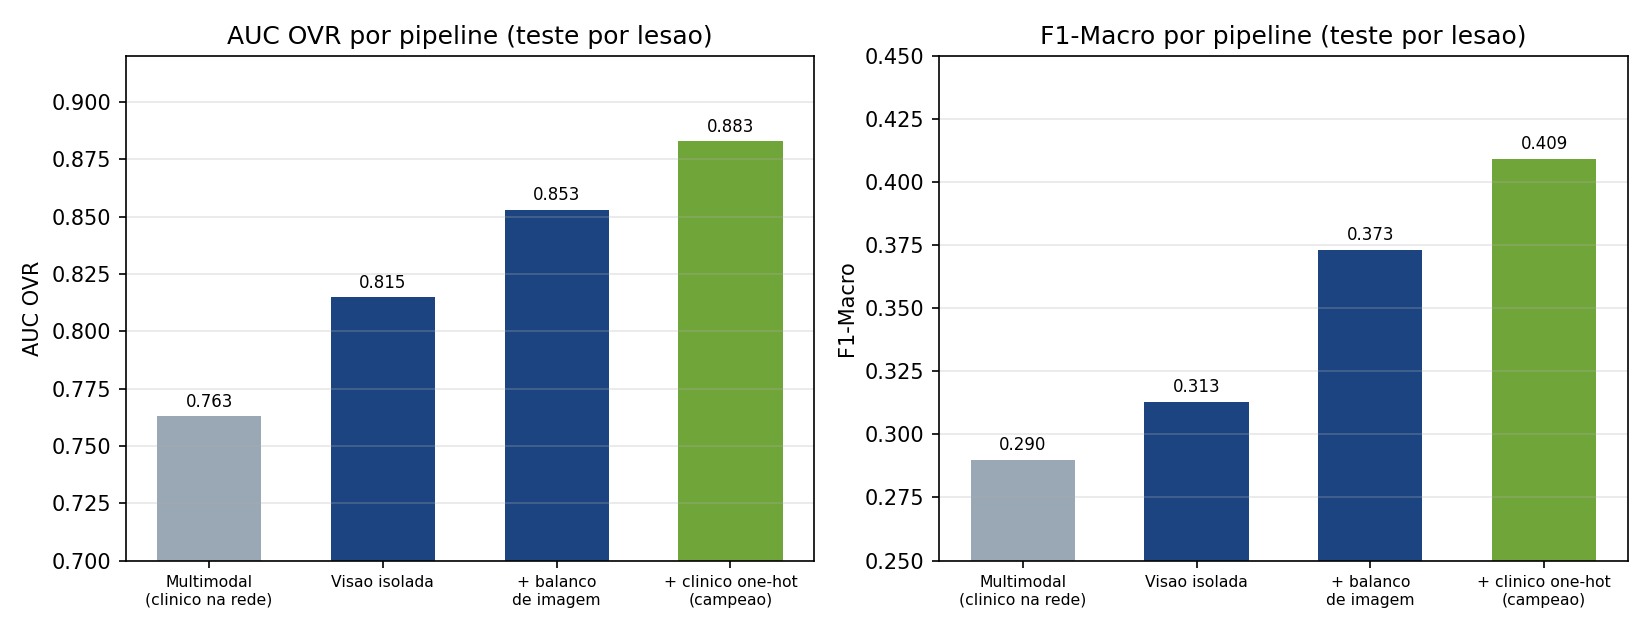
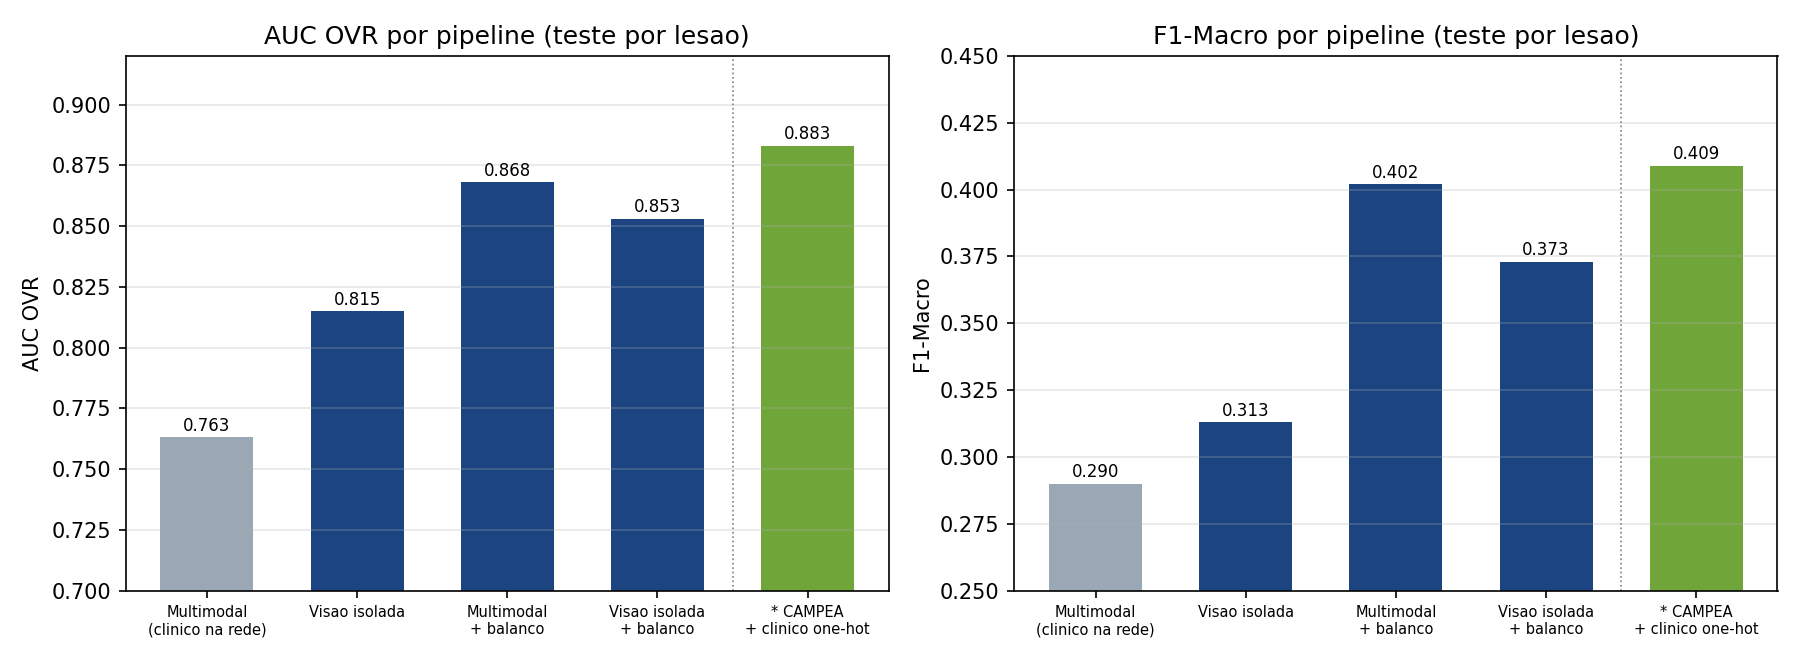
resultados: gráfico comparativo corrigido + matriz de confusão da campeã (7 classes + binária)

diff --git a/scripts/_champion_matrices.py b/scripts/_champion_matrices.py
@@ -1,0 +1,60 @@
+# -*- coding: utf-8 -*-
+"""Matrizes de confusao da CAMPEA (XGBoost+SMOTE sobre image-only+balance + clinico one-hot).
+Gera 1 figura com 2 paineis:
+  (a) 7 classes  (predicao argmax)
+  (b) maligna x benigna no limiar de triagem 0,05 (ponto de operacao)
+Saida: resultados/matriz_confusao_campea.png
+"""
+import warnings; warnings.filterwarnings("ignore")
+from pathlib import Path
+import numpy as np
+import matplotlib; matplotlib.use("Agg")
+import matplotlib.pyplot as plt
+from imblearn.over_sampling import SMOTE
+from sklearn.metrics import confusion_matrix, ConfusionMatrixDisplay
+from xgboost import XGBClassifier
+
+CLASSES = ["akiec","bcc","bkl","df","mel","nv","vasc"]
+MALIG = [0,1,4]; TAU = 0.05
+B = Path("data/embeddings_cache/grouped"); MM, WIN = B/"multimodal", B/"imageonlybalanced"
+OUT = Path("resultados"); OUT.mkdir(parents=True, exist_ok=True)
+
+# clinico one-hot (alinhado; do multimodal)
+ctr = np.vstack([np.load(MM/"X_train_clin.npy"), np.load(MM/"X_val_clin.npy")]); cte = np.load(MM/"X_test_clin.npy")
+locs = np.unique(np.concatenate([ctr[:,2],cte[:,2]])).astype(int); sexs = np.unique(np.concatenate([ctr[:,1],cte[:,1]])).astype(int)
+oh = lambda c: np.hstack([c[:,0:1],
+    np.stack([(c[:,1].astype(int)==s)*1.0 for s in sexs],1),
+    np.stack([(c[:,2].astype(int)==l)*1.0 for l in locs],1)])
+Xtr = np.hstack([np.vstack([np.load(WIN/"X_train_imgfused.npy"), np.load(WIN/"X_val_imgfused.npy")]), oh(ctr)])
+Xte = np.hstack([np.load(WIN/"X_test_imgfused.npy"), oh(cte)])
+ytr = np.concatenate([np.load(MM/"y_train.npy"), np.load(MM/"y_val.npy")]); yte = np.load(MM/"y_test.npy")
+
+k = min(5, int(np.bincount(ytr).min()-1))
+Xb, yb = SMOTE(random_state=42, k_neighbors=max(1,k)).fit_resample(Xtr, ytr)
+clf = XGBClassifier(use_label_encoder=False, eval_metric="mlogloss", random_state=42, verbosity=0).fit(Xb, yb)
+proba = clf.predict_proba(Xte)
+pred = proba.argmax(1)
+
+fig, ax = plt.subplots(1, 2, figsize=(13, 5.2))
+
+# (a) 7 classes
+cm7 = confusion_matrix(yte, pred, labels=range(7))
+ConfusionMatrixDisplay(cm7, display_labels=CLASSES).plot(ax=ax[0], cmap="Blues", values_format="d", colorbar=False)
+ax[0].set_title("(a) Campea XGBoost - 7 classes (argmax)")
+
+# (b) maligna x benigna no limiar 0,05
+ymal = np.isin(yte, MALIG).astype(int)
+flag = (proba[:, MALIG].sum(1) >= TAU).astype(int)
+cmb = confusion_matrix(ymal, flag, labels=[1,0])  # linhas: maligna, benigna ; col: sinalizada, liberada
+ConfusionMatrixDisplay(cmb, display_labels=["sinalizada","liberada"]).plot(ax=ax[1], cmap="Greens", values_format="d", colorbar=False)
+ax[1].set_yticklabels(["maligna","benigna"])
+ax[1].set_title(f"(b) Maligna x benigna no limiar {TAU} (triagem)")
+
+plt.tight_layout()
+plt.savefig(OUT/"matriz_confusao_campea.png", dpi=150)
+# numeros da binaria (para conferencia)
+tp=cmb[0,0]; fn=cmb[0,1]; fp=cmb[1,0]; tn=cmb[1,1]
+print("7 classes salvas. Binaria @0,05:")
+print(f"  TP(maligna sinalizada)={tp}  FN(maligna liberada)={fn}  FP(benigna sinalizada)={fp}  TN(benigna liberada)={tn}")
+print(f"  sensib={tp/(tp+fn):.3f}  especif={tn/(tn+fp):.3f}  PPV={tp/(tp+fp):.3f}")
+print("salvo:", OUT/"matriz_confusao_campea.png")

diff --git a/scripts/_comparison_figure.py b/scripts/_comparison_figure.py
@@ -1,46 +1,40 @@
 # -*- coding: utf-8 -*-
-"""Gera figura comparativa para o artigo: barras de F1-Macro e AUC OVR
-das 4 variantes (desenho fatorial) + o efeito da fusao clinica.
-Le os CSVs ja gerados em docs/tcc/revisao/results_grouped/.
+"""Figura comparativa do artigo — CONSISTENTE com a Tabela 2 (desenho fatorial)
++ a barra da campea (Tabela 3, clinico one-hot no classificador).
 Saida: resultados/comparativo_pipelines.png
 """
 from pathlib import Path
 import numpy as np
-import pandas as pd
 import matplotlib
 matplotlib.use("Agg")
 import matplotlib.pyplot as plt
 
-R = Path("docs/tcc/revisao/results_grouped")
 AZUL, VERDE, CINZA = "#1B4480", "#6FA539", "#9AA7B4"
 
-# --- dados (holdout, XGBoost+SMOTE) ---
+# 4 variantes do desenho fatorial (= Tabela 2, exatamente) + campea (= Tabela 3)
 labels = ["Multimodal\n(clinico na rede)", "Visao isolada",
-          "+ balanco\nde imagem", "+ clinico one-hot\n(campeao)"]
-f1  = [0.290, 0.313, 0.373, 0.409]
-auc = [0.763, 0.815, 0.853, 0.883]
+          "Multimodal\n+ balanco", "Visao isolada\n+ balanco",
+          "* CAMPEA\n+ clinico one-hot"]
+auc = [0.763, 0.815, 0.868, 0.853, 0.883]
+f1  = [0.290, 0.313, 0.402, 0.373, 0.409]
+cores = [CINZA, AZUL, AZUL, AZUL, VERDE]
 
-fig, ax = plt.subplots(1, 2, figsize=(11, 4.2))
-
+fig, ax = plt.subplots(1, 2, figsize=(12, 4.4))
 x = np.arange(len(labels))
-bars = ax[0].bar(x, auc, color=[CINZA, AZUL, AZUL, VERDE], width=0.6)
-ax[0].set_ylim(0.70, 0.92); ax[0].set_ylabel("AUC OVR")
-ax[0].set_title("AUC OVR por pipeline (teste por lesao)")
-ax[0].set_xticks(x); ax[0].set_xticklabels(labels, fontsize=7.5)
-for b, v in zip(bars, auc):
-    ax[0].text(b.get_x()+b.get_width()/2, v+0.004, f"{v:.3f}", ha="center", fontsize=8)
-ax[0].grid(axis="y", alpha=0.3)
 
-bars2 = ax[1].bar(x, f1, color=[CINZA, AZUL, AZUL, VERDE], width=0.6)
-ax[1].set_ylim(0.25, 0.45); ax[1].set_ylabel("F1-Macro")
-ax[1].set_title("F1-Macro por pipeline (teste por lesao)")
-ax[1].set_xticks(x); ax[1].set_xticklabels(labels, fontsize=7.5)
-for b, v in zip(bars2, f1):
-    ax[1].text(b.get_x()+b.get_width()/2, v+0.004, f"{v:.3f}", ha="center", fontsize=8)
-ax[1].grid(axis="y", alpha=0.3)
+for k, (eixo, vals, titulo, ylab, lo, hi) in enumerate([
+    (ax[0], auc, "AUC OVR por pipeline (teste por lesao)", "AUC OVR", 0.70, 0.92),
+    (ax[1], f1,  "F1-Macro por pipeline (teste por lesao)", "F1-Macro", 0.25, 0.45),
+]):
+    bars = eixo.bar(x, vals, color=cores, width=0.62)
+    eixo.set_ylim(lo, hi); eixo.set_ylabel(ylab); eixo.set_title(titulo)
+    eixo.set_xticks(x); eixo.set_xticklabels(labels, fontsize=7)
+    eixo.axvline(3.5, color="gray", ls=":", lw=0.8)   # separa fatorial (Tab.2) da campea (Tab.3)
+    for b, v in zip(bars, vals):
+        eixo.text(b.get_x()+b.get_width()/2, v+(hi-lo)*0.012, f"{v:.3f}", ha="center", fontsize=8)
+    eixo.grid(axis="y", alpha=0.3)
 
 plt.tight_layout()
 out = Path("resultados/comparativo_pipelines.png")
 plt.savefig(out, dpi=150)
-# copia para a apresentacao tambem
 print("salvo:", out, "(+ copia na apresentacao)")
